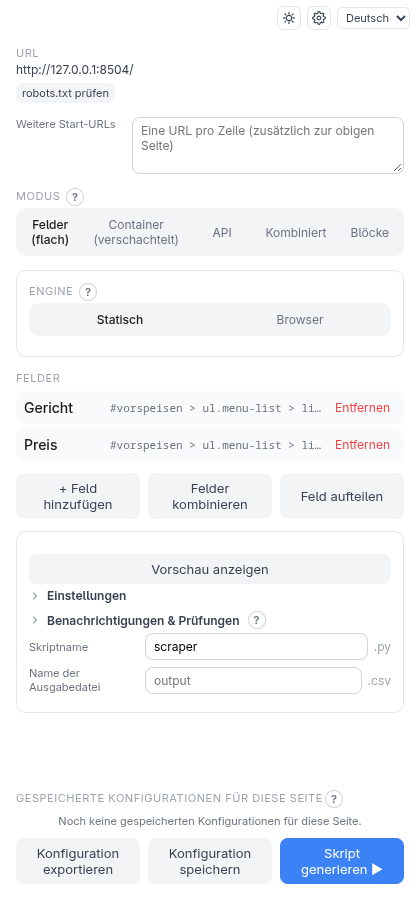
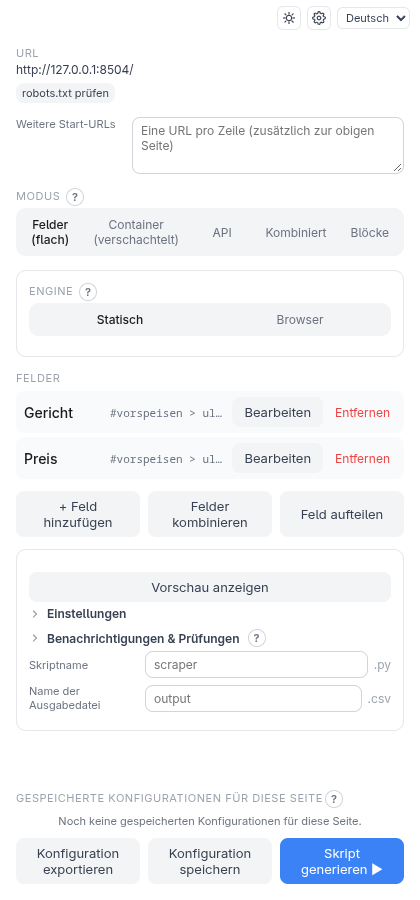
docs: describe the name defaults as placeholders (#510)

diff --git a/docs/design-notes/extension.md b/docs/design-notes/extension.md
@@ -35,6 +35,7 @@
 - **API mode: one data-point search for recorded requests and embedded JSON** (Issue #507): which source a site needs is a technical detail, so the two buttons became one, **Find data point** (`btn-api-search`, always enabled — the embedded part needs no recording). `startApiFieldSearch` sends one `START_SELECTION` with both `apiSearch` and `embeddedJsonSearch`. The click handler in `content-script.ts` runs both searches and answers with ONE `API_CANDIDATES` message (`mergeCandidateSources`: recorded hits first, then embedded ones; each list keeps its own ranking): the popup's `message-router.ts` consumes `apiSearchTarget` with the first reply, so two separate replies would have lost the second, and merging in the content script keeps the popup untouched and the answer atomic. The cards say where a hit was found ("Recorded request: GET …" / "Embedded in the page: <script selector>", `apiCandidates.recordedRequestLabel` / `embeddedJsonSourceLabel`); confirmation is still dispatched by shape (`candidate.scriptSelector`), as since Issue #136. Searches scoped to an existing tree keep asking exactly one source: `startApiTreeFieldSearch` picks embedded JSON when the tree already has an `embeddedJsonSource` and the recording otherwise, and the discovery-source search stays recording-only, because a candidate of the other kind could not be added to that tree or parameter. The wire and the generated scripts are unchanged; the test page `/hybrid` of `test-pages/embedded-json-menu` has the same products embedded and fetched, to see both hits.
 - **Browser engine: "Record my steps"** (Issue #508): the button in the Browser actions section has the service worker reload the tab (so the recording starts from the state the script starts from) and arm `content/step-recorder.ts` in every frame; the panel lists the steps live and, on **Stop recording**, turns them into the ordinary `BrowserAction`s (`stepsToActions`, with the editor's own defaults from `addBrowserAction`) — appended, replaced or discarded after one question when the list was not empty. The rules: **Typed text is never read** — the recorder listens to `input` events but touches neither `.value` nor anything derived from it, so a fill step names the field and its input type only (a password input gets the `password` role, which only changes wording), and the editor asks for the environment-variable name as for any Fill; the trial-run value stays the in-memory `fillTestValues`. Clicks: `closest()` to the clickable ancestor, a click into a text field is no step (the typing is), consecutive clicks on the same selector collapse, and among several identical matches the last one is recorded with `target: 'last'` (the replay can address only first and last; a text narrowing via `:contains()` is used first when it makes the selector unique). Scroll: a scroll burst counts only if the scrolled element's (or the document's) `scrollHeight` grew once it was quiet for 1 s — a reading scroll is dropped; the container is the scrolled element's selector, none for the page. WaitFor: a `MutationObserver` remembers nodes added after the recording began; a click or fill on such an element (or inside one) gets a Wait in front, unless one for the same selector already stands there. Navigation: the recorder lives in the document; the service worker keeps the recorded tab id in `storage.session` and re-sends the start message on every `tabs.onUpdated` "complete" of that tab, retrying briefly, so a navigation continues the recording; a closed tab or a page without a content script ends it with a note and keeps the steps so far. A click that navigates *is* recorded: the replay needs it to reach the next page. Not recorded: Enter to submit, drop-downs, dragging, shortcuts (the docs say to click the button). The content script's message reaches the open panel directly, so the service worker does not relay `STEP_RECORDED` (a relay delivered every step twice). Nothing changes on the wire or in the generated scripts.
 - **Default output file name** (Issue #509): the script name already had a Settings default (Fixed name / From website); the output file gets the same kind of default, `outputNameMode` `'fixed'` (`outputNameFixed`, empty = today's `output`) or `'script'` (the effective script name, `sanitizeFileNameBase(scriptFileName, 'scraper')`). `resolveOutputFileName` (`popup/output-name.ts`) is the whole rule — a typed name wins (passed on as typed, the companion sanitizes it), else the chosen default, else `null` — and the default goes through the same `sanitizeFileNameBase` as a typed name, with the fallbacks `scraper` / `output` for an empty result, so a stored `CON` or `!!!` cannot become an invalid file name. It is applied in `generate()` (`companion-client.ts`) as an override of `configOptionsFromState`'s `outputFileName`, deliberately not inside `configOptionsFromState` itself: that function also feeds "Save configuration" and "Export configuration", and the setting is a preference of this browser, never part of a configuration (a configuration saved with an empty field must behave the same on every machine). With the setting untouched `resolveOutputFileName` returns `null`, so the request and every generated script are byte-identical to before. Blocks mode sends no top-level name (each block names its file), so nothing changes there; Combined mode does send it and takes the default. What the field shows while it is empty (a placeholder naming the default) is Issue #510.
+- **Script and output name defaults as placeholders** (Issue #510): `scriptFileName` used to be filled with the default (host name or fixed name) whenever a site was detected, so a user's own name needed the prefilled text deleted first, while `outputFileName` was already empty with a static placeholder. Both now follow one rule: the field stays empty, the default is its placeholder, and an empty field is resolved when the request is built. `name-defaults.ts` computes the defaults — `defaultScriptName` (`From website`: the host name through `deriveScriptFileNameFromHostname`, falling back to the fixed name; `Fixed name`: the fixed name; both sanitized, `scraper` when empty) and `defaultOutputName` (`Same as the script name` follows the *resolved* script name, i.e. a typed one live, else the default; a custom name is sanitized; `output` otherwise) — and the idle screen sets both placeholders on every render, so a changed URL, script field or setting updates the placeholder and never the typed text. `generate()` resolves both names and hands them to `configOptionsFromState` as overrides, so the wire still carries the concrete names and the companion, the wire fixtures and the snapshots are unchanged. Saved configurations and exports hold only typed names: a configuration saved with an empty field follows the default of the site it is loaded on (before, the prefilled host name was saved with it); names stored by earlier versions are real typed values and keep working, as does a loaded configuration's `scriptFileName`. The download file name and the done screen's button label resolve the same way (`scriptFileBase`). `computeScriptFileNamePatch` and its two call sites (the health check and the stale-URL correction in `message-router.ts`) are removed; "New scraper" still clears both fields.
 - **`api-config-ui.ts` split into focused modules** (Issue #390, first item of the oversized-modules tracking issue — `content-script.ts`, `popup.ts`, `saved-configs-ui.ts`, `settings-panel-ui.ts`/`output-blueprints-ui.ts`, `api-config.ts` and `scraping-config-builder.ts` follow in their own PRs): the 1,967-line API-mode UI module is now `api-capture-ui.ts` (recording, searches, candidate/recorded-request lists, confirming a candidate), `api-response-tree-ui.ts` (response tree, group + leaf-transforms modals, tree search), `api-parameters-ui.ts` (URL parts, parameter-source cards), `api-browser-discovery-ui.ts` (the BrowserDiscoverySource editor), `api-request-ui.ts` (captured headers, POST body tree + its modal) and `api-config-shared-ui.ts` (`patchApiConfigDraft`/`patchApiConfigSource`, the parameter-placeholder picker) — each under 500 lines — with `api-config-ui.ts` left as a ~350-line orchestrator (`renderApiConfigScreen`, `confirmApiConfig`, `cancelApiConfig`, `renderApiConfigModals`, `wireApiConfigEvents`) that **re-exports every name it used to export**, so `popup.ts`, `idle-screen-ui.ts` and the tests import unchanged (`api-config-ui-exports.test.js` pins the surface and that each name is the very function of its module). **A pure move**: every code line is verbatim (verified by comparing the multiset of non-blank lines before and after; only imports/exports and the wiring scaffolding differ), comments move with their code (trimming them is #379), tests stay where they are (moving them is #393). The two oversized wire functions are broken up: `wireApiConfigEvents` (335 lines) became one `wire…Events(bridge)` per module (`wireApiCaptureEvents`, `wireApiResponseTreeEvents`, `wireApiParameterEvents`, `wireApiRequestEvents`) called in the same order, and `wireApiCandidateListEvents` (341 lines in a closure) is a module-level export of `api-capture-ui.ts`, which the orchestrator also uses for the tree-search list. The one listener that spanned two areas — `#api-config-parameters`' `change`/`click` — keeps a **single** handler in `api-parameters-ui.ts` whose last statement hands over to `handleBrowserDiscoveryChange`/`handleBrowserDiscoveryClick` (`api-browser-discovery-ui.ts`), preserving the original if-chain semantics. **Dependency direction** (no cycles, none imports `api-config-ui.ts`): shared ← tree, capture, request, browser; browser, capture ← parameters; everything ← orchestrator. **One real bug found and fixed first, in its own commit** (`removeApiTreeNode` was used by the response-tree "Remove" handler but never imported into `api-config-ui.ts`; it only worked while every module shared one global scope, so since the esbuild bundling of #389 clicking Remove on an API tree row threw a `ReferenceError` — regression test `api-tree-remove.test.js`). A small throwaway reference check (a `@babel/parser` + `traverse` pass over each file) found it; the split files were verified with the same pass. Covered by the existing popup suite plus `e2e/examples/issue-390-api-config-ui-check.js` (api-nested-and-post fixture: record the POST search, confirm a field with its siblings, remove a row, add/remove a group, open the transforms modal, turn the body's `category` into a new variable, give it a value list, and a **real Generate that requests both categories**); the #220/#224/#321 API-mode checks pass unchanged.
 - **Pagination helpers: derived page-number template, Advanced placement** (Issue #405, UX audit finding 10): the "Page-number URL" kind needed a template with `{url}`/`{page}` and so knowledge of how the site's page URLs look; the "next link" selector had a picker but also a typed field; "Discover additional start URLs" asked for a URL and a selector for a feature most users never need. **Pure derivation** (`popup/pagination-template.ts`, `@ts-check`): `detectPageTemplate({ currentUrl, linkHref })` → `{ template, style, usesStartUrl, example }` or `null`. With a clicked link's resolved href (`resolveLinkHref`) the pattern is learned from how it differs from the start URL — **query style**: the one parameter that is the next number (2 when the start URL has none, but then only a conventional name: `page`/`p`/`pg`/`paged`/`pagenum`/`pagenumber`/`pageno`/`seite`/`pagina`/`currentpage`, so `?cat=2` is not page 2; already present → its number + 1) while every other query parameter is identical → `{url}?page={page}` / `{url}&page={page}`, or the start URL with the number replaced by `{page}` when it already has one; **path style**: `/page/2/`, `/seite/2`, `/pagina/2`, `/p/2` appended to the start path (`{url}page/{page}/`) or replacing the start URL's own number. Without a link (or a link that shows nothing) only a **start URL that already says page 1** is recognised (`?page=1`, `/page/1/`; `page=2` or `0` is not — pages 2.. would be wrong). Deliberately conservative: zero-based counters, offsets, several plausible parameters, another host/path, a `#fragment` in the way → `null`, never a guess. The proposal is only ever **applied by a button**, and `proposalAlreadyApplied` keeps the banner away once it is. **`{url}` is now optional in the companion** (`ScrapingPlanValidator.ValidatePageNumberUrlTemplate(urlTemplate, singleStartPage)`, the one companion change; wire format and generated scripts unchanged — the script's `.format(url=…, page=…)` already tolerated it): a start URL that already carries `?page=1` can't be expressed with `{url}` (the page number can't be overridden by appending), so `https://site/list?page={page}` is valid for a **single start page** — but with **several** (`Url` + `AdditionalUrls`, or `DiscoveredUrls`) `{url}` stays required, since a template without it would request the same page N for every start page; the extension mirrors the rule (`currentProposal` in `pagination-ui.ts` drops a proposal without `{url}` while additional start URLs exist or discovery is on). **UI** (`popup/pagination-ui.ts`, called from `idle-screen-ui.ts`/`popup.ts`): a proposal **banner** above the kind toggle (`#pagination-suggestion`: "Looks like page numbers are in the URL. Use this pattern?", the template, the example for page 2, **Use this pattern** → kind `pageNumber` + template); the link's address is stored as UI-only `pagination.linkHref` inside the pagination draft (persisted with it, never sent — `buildPaginationConfig` ignores it, asserted by a test), fed by **two pickers**: the existing "next link" pick (`message.attributes.href` — message-router and session-restore both fill it) and the new `selectionKind: 'paginationPageLink'` ("Click a link to page 2 to learn the pattern", stores only the address, warns with `toast.paginationNotALink` for an element without an `href`; `resolveLinkHref('')` is `''`, not the page itself). The "next" link's **typed selector** is an editable detail under a remembered **Advanced** (`pagination-next-link`) with the picked selector shown as a chip; the URL pattern and **Max. pages** get "?" popovers (`help.pagination.urlTemplate`/`maxPages`: what `{page}`/`{url}` are, page 1 is the start page, `{url}` required with several start pages / the safety limit and its earlier stops), replacing the long hint paragraph. **"Discover additional start URLs"** moved, whole, under **Advanced: find start pages automatically** (`#discovered-urls-advanced`, `data-advanced="discovered-urls"`, hidden for API/Combined/Blocks, opened once when the option is already on so a returning user's setting is never tucked away), keeping its pickers, with a one-sentence hint and a popover (`help.discoveredUrls.overview`). `.output-settings-row input[type="number"]` got a width cap (the rows' own number inputs had none and overflowed a 280 px panel once a help host sat in the row). Covered by `pagination-template.test.js` (~40 cases across URL shapes, the round trip through `buildPaginationConfig`), `pagination-ui.test.js` (banner, use, both pickers, the several-start-pages rule, Advanced placement, session restore), .NET `ScrapingPlanValidator*Tests` + `PaginationEndToEndTests` (a template without `{url}` through a real run) and `e2e/examples/issue-405-pagination-helpers-check.js` (the new `test-pages/paginated-listing` fixture with `?page=N` and `/blog/page/N/` lists: **real Generate runs scraping all nine items for each of the three start shapes**, popovers, Advanced, de, 280/320/400 px). Found on the way, **not fixed here**: the service worker stores every pick as `pendingSelector` for a closed panel and that write can land *after* the open panel's own `remove('pendingSelector')` (message-router), so a later popup reload occasionally pops a stale field modal — the check clears it before reloading.
 - **Login flow and browser actions in plain language** (Issue #403, UX audit finding 8): a login is built from the generic WaitFor/Fill/Click/Scroll actions, with no explanation of what it consists of and fields mixing units and concepts. **Labels, a starter and help only — the wire format and the generated scripts are unchanged.** **Overview**: the "Browser actions" title carries a "?" (`help.browserActions.overview`: a login is fill user name → fill password → click the button → wait until the signed-in page appears; steps run in order, before data is read), and the intro line points at the starter. **"Login form (4 steps)" starter** (`#btn-add-login-flow`, pure `popup/login-flow.ts` `addLoginFlow`, rendered by `browser-actions-ui.ts`): *appends* (never replaces) Fill (user name, `SITE_USERNAME`), Fill (password, `SITE_PASSWORD` — the #397 naming), Click (login button) and WaitFor (until logged in, **10 s** instead of the generic 5 s since login pages are slow); a second click gets `…_2` variable names (`uniqueEnvName`) so two actions never read the same variable. Each starter action carries a **UI-only `role`** (`user`/`password`/`submit`/`loggedIn`, `SFDraft.BrowserActionRole`): its card is titled "Fill in the user name"/"Click the login button"/…, the pick button says what to pick ("Select the user name field"), the env-var and test-value labels name the user name/password — and `serializeBrowserActions` picks the wire fields per kind, so **a role never reaches the request body** (a Jest test asserts the exact wire list; `config-import.ts` restores no role, a loaded login shows the plain kind labels). `#login-flow-hint` ("Now click the four elements…") shows while any starter action still lacks its element. **Plain units**: times are typed in **seconds** and stored/sent as milliseconds (`msToSecondsText`/`secondsTextToMs` in `login-flow.ts`: `0.25` ↔ 250 ms, a decimal comma works in the helper — a `type=number` input takes the browser's own decimal separator —, junk/negative/zero-where-impossible falls back to the old default, `allowZero` for pauses), with the default as placeholder: "Wait at most (seconds)", "Pause after each round/click (seconds)"; the BrowserDiscoverySource action editor in `api-config-ui.ts` (Issue #216) shares the labels and was converted the same way, the old `timeoutLabel`/`waitAfterMsLabel` keys are gone. "Max. rounds" has a "?" (`help.browserActions.maxRounds`: how many times to scroll/click "Load more" before stopping). **Advanced** (the #396 component, one remembered section per kind: `browser-action-click`, `browser-action-scroll`): a Click's target (first/last/all) and its pause, a Scroll's container, "Load more" button and scroll step (now "pixels"); rounds and the pause stay visible. `createAdvancedDisclosure` now applies the remembered open state **synchronously** at creation, because a card built by a re-render must not collapse and reopen (the `toggle` event is async: a re-render within the same frame as the click can still lose the very first open — not reachable by a human). **Persistent session**: the visible hint is one sentence plus the **cookie warning** ("…the saved session file holds live cookies — treat it like a password"); the rest (never share/commit, expiry fails the run, delete the file to log in again) moved into `help.browserActions.persistentSession`. Small CSS fix found on the way: `.browser-action-field-row select` could overflow a 280 px panel (the click-target `<select>`). Covered by `login-flow.test.js` (starter, unique names, wire equality, seconds↔ms, the wired-up popup: four role-named cards, the hint, a real `/generate` body, Advanced contents), the adapted `browser-actions-ui.test.js`/`click-target.test.js`, and `e2e/examples/issue-403-login-starter-check.js` (fixture `login-flow`: the starter, picking the four elements on the page, a **real Generate that logs in with the typed test values and scrapes the dashboard balance**, Advanced collapsed, de, 280/320/400 px); the #267 check was adapted to open "Advanced" and use seconds.

diff --git a/docs/user/de/output.md b/docs/user/de/output.md
@@ -1,4 +1,4 @@
-<!-- source: 75dfdcada3a8 -->
+<!-- source: b23b85effbbc -->
 # Ausgabeformate und Ausgabe-Layouts
 
 ## Ausgabeformat
@@ -24,9 +24,12 @@ Hinweise:
 - SQLite und Excel gibt es nicht für den Blöcke- und den Kombiniert-Modus, und sie lassen
   sich nicht mit der Änderungserkennung kombinieren.
 - Die Namen von Skript und Ausgabedatei kommen aus **Skriptname** und **Name der
-  Ausgabedatei** unten auf dem Startbildschirm. Unter **Einstellungen** kann der
-  **Standard-Skriptname** ein fester Name sein oder aus dem Hostnamen der Website
-  abgeleitet werden.
+  Ausgabedatei** unten auf dem Startbildschirm. Beide Felder bleiben leer und zeigen den
+  Standard, auf den sie zurückfallen, grau an; tippe einen Namen, um deinen eigenen zu
+  nutzen (ohne vorher zu löschen), leere das Feld, um zum Standard zurückzukehren. Unter
+  **Einstellungen** kann der **Standard-Skriptname** ein fester Name sein oder aus dem
+  Hostnamen der Website abgeleitet werden, und der
+  [Standard-Ausgabedateiname](#standard-ausgabedateiname) legt den der Datendatei fest.
 
 Weitere ausgabebezogene Einstellungen unter **Einstellungen**: **Testlauf-Datenvorschau
 anzeigen**, **Vollständige Scraping-Datei herunterladen** (die vollständige Ausgabe des
@@ -46,9 +49,11 @@ legt **Standard-Ausgabedateiname** fest, was gilt, solange dieses Feld leer blei
 - **Eigener Name** — dieser Name gilt für jeden Scraper (zum Beispiel `daily-data`);
   leer bleibt es `output`, wie bisher.
 
-Ein für einen Scraper getippter Name gewinnt immer. Der Standard ist eine Einstellung
-dieses Browsers: Er wird nicht in eine Konfiguration oder deren Export gespeichert und
-gilt beim Erzeugen des Skripts. Beide Arten von Namen werden gleich bereinigt (Buchstaben,
+Ein für einen Scraper getippter Name gewinnt immer. Das Feld **Name der Ausgabedatei**
+zeigt den Standard grau an, solange es leer ist (bei **Wie der Skriptname** folgt er dem
+Feld **Skriptname**, während du tippst). Der Standard ist eine Einstellung dieses
+Browsers: Er wird nicht in eine Konfiguration oder deren Export gespeichert und gilt beim
+Erzeugen des Skripts. Beide Arten von Namen werden gleich bereinigt (Buchstaben,
 Ziffern, `-` und `_`), aus `Mein Skript!` wird also `Mein_Skript`. Im
 [Blöcke-Modus](modes.md#blöcke) benennt jeder Block seine Datei selbst, daher gilt der
 Standard dort nicht.

diff --git a/docs/user/output.md b/docs/user/output.md
@@ -22,8 +22,12 @@ Notes:
 - SQLite and Excel are not available for Blocks or Combined mode and cannot be
   combined with change detection.
 - The script and output file names come from **Script name** and **Output file
-  name** at the bottom of the idle screen. In **Settings**, **Default script
-  name** can be a fixed name or derived from the website's hostname.
+  name** at the bottom of the idle screen. Both fields stay empty and show the
+  default they fall back to in grey; type a name to use your own (no deleting
+  first), clear the field to return to the default. In **Settings**,
+  **Default script name** can be a fixed name or derived from the website's
+  hostname, and [Default output file name](#default-output-file-name) sets the
+  data file's.
 
 Other output-related preferences in **Settings**: **Show trial-run data
 preview**, **Download the full scraped data file** (the complete trial-run
@@ -43,9 +47,11 @@ left empty:
 - **Custom name** — that name is used for every scraper (for example `daily-data`);
   left empty it stays `output`, as before.
 
-A name you type for a scraper always wins. The default is a preference of this
-browser: it is not saved into a configuration or its export, and it applies when the
-script is generated. Both kinds of name are cleaned up the same way (letters,
+A name you type for a scraper always wins. The **Output file name** field shows the
+default in grey while it is empty (with **Same as the script name** it follows the
+**Script name** field as you type). The default is a preference of this browser: it
+is not saved into a configuration or its export, and it applies when the script is
+generated. Both kinds of name are cleaned up the same way (letters,
 digits, `-` and `_`), so `Mein Skript!` becomes `Mein_Skript`. In
 [Blocks mode](modes.md#blocks) every block names its own file, so the default does
 not apply there.

diff --git a/docs/ARCHITECTURE.md b/docs/ARCHITECTURE.md
@@ -736,6 +736,19 @@ docs/design-notes/extension.md for the details.
 - Tests: `popup/hardening-presets.test.js`, `popup/hardening-presets-ui.test.js`,
   real-browser check `e2e/examples/issue-399-hardening-plain-language-check.js`
 
+### 2.10t Name defaults as placeholders (Issue #510)
+
+The Script name and Output file name fields hold only what the user typed; the default they fall back to is the
+placeholder, and a request resolves an empty field to it. `popup/name-defaults.ts` (pure) computes the defaults
+(host name / fixed name for the script, the #509 setting for the output); `computeScriptFileNamePatch` is gone, so
+nothing writes a default into the state. See docs/design-notes/extension.md.
+
+- Extension: `popup/name-defaults.ts`, `popup/output-name.ts`, `popup/companion-client.ts` (generate resolves both
+  names as overrides of `configOptionsFromState`), `popup/idle-screen-ui.ts` (placeholders on every render),
+  `popup/download-helpers.ts` and `popup/popup.ts` (script file name of the download and its label)
+- Tests: `popup/name-defaults.test.js`, `popup/name-placeholders-popup.test.js`, `popup/output-name-popup.test.js`,
+  real-browser check `e2e/examples/issue-510-name-placeholders-check.js` (fixture `speisekarte`)
+
 ### 2.10s Default output file name (Issue #509)
 
 Settings → **Default output file name** (`outputNameMode` `'fixed' | 'script'`, `outputNameFixed`, in the global

diff --git a/docs/user/de/getting-started.md b/docs/user/de/getting-started.md
@@ -1,4 +1,4 @@
-<!-- source: 2022b2f6b063 -->
+<!-- source: 38bd20c29c5c -->
 # Erste Schritte
 
 Diese Seite führt dich in etwa zehn Minuten von null zu einem funktionierenden Scraper.
@@ -94,8 +94,9 @@ anzeigen** ein:
 
 ### Das Skript ausführen
 
-Lade das Skript herunter (es heißt wie das Feld **Skriptname**, standardmäßig
-`scraper.py`) und führe es aus:
+Lade das Skript herunter (es heißt wie das Feld **Skriptname**; solange das leer ist,
+wie der darin grau angezeigte Standard — der Hostname der Website oder `scraper`) und
+führe es aus:
 
 ```bash
 pip install requests beautifulsoup4

diff --git a/docs/user/getting-started.md b/docs/user/getting-started.md
@@ -89,8 +89,9 @@ preview** in the **Settings** screen (the gear icon) before generating:
 
 ### Run the script
 
-Download the script (it is named after the **Script name** field, `scraper.py`
-by default) and run it:
+Download the script (it is named after the **Script name** field; while that is
+empty, after the default shown in grey in it — the website's host name, or
+`scraper`) and run it:
 
 ```bash
 pip install requests beautifulsoup4
